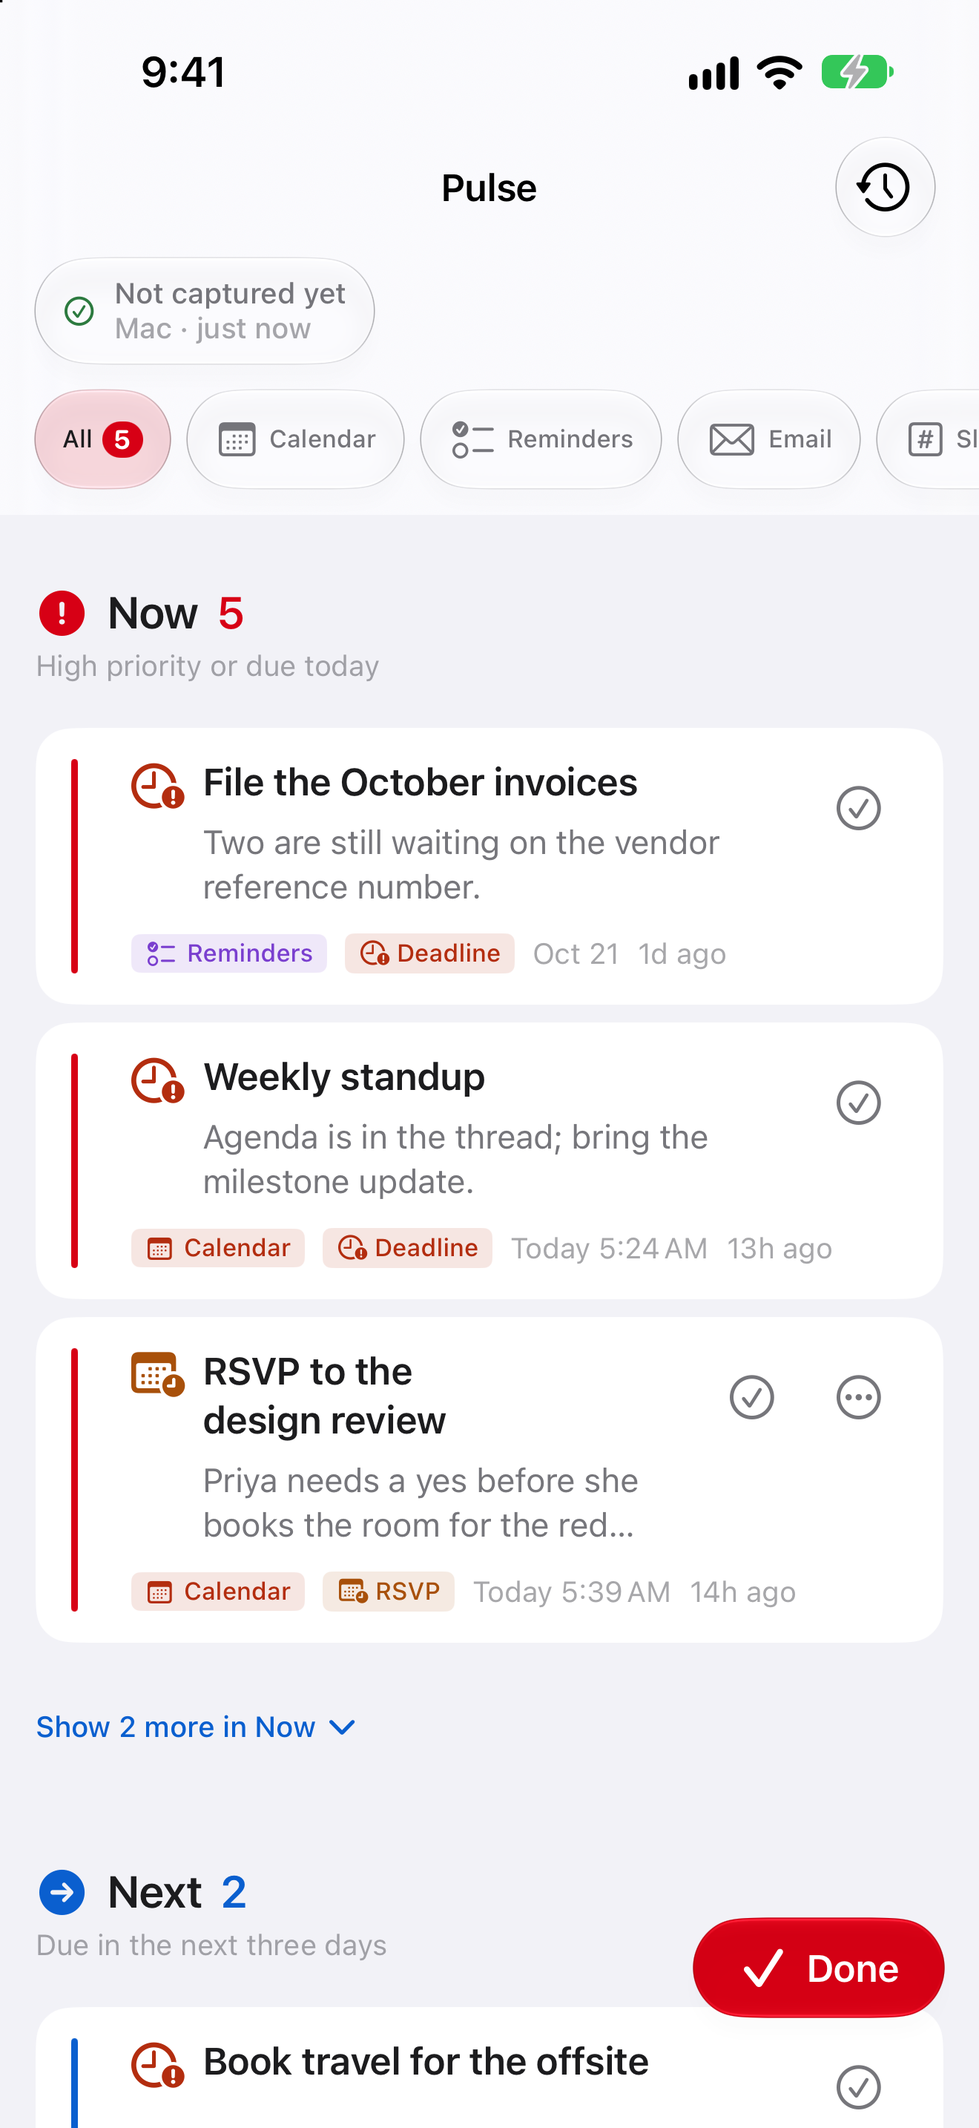
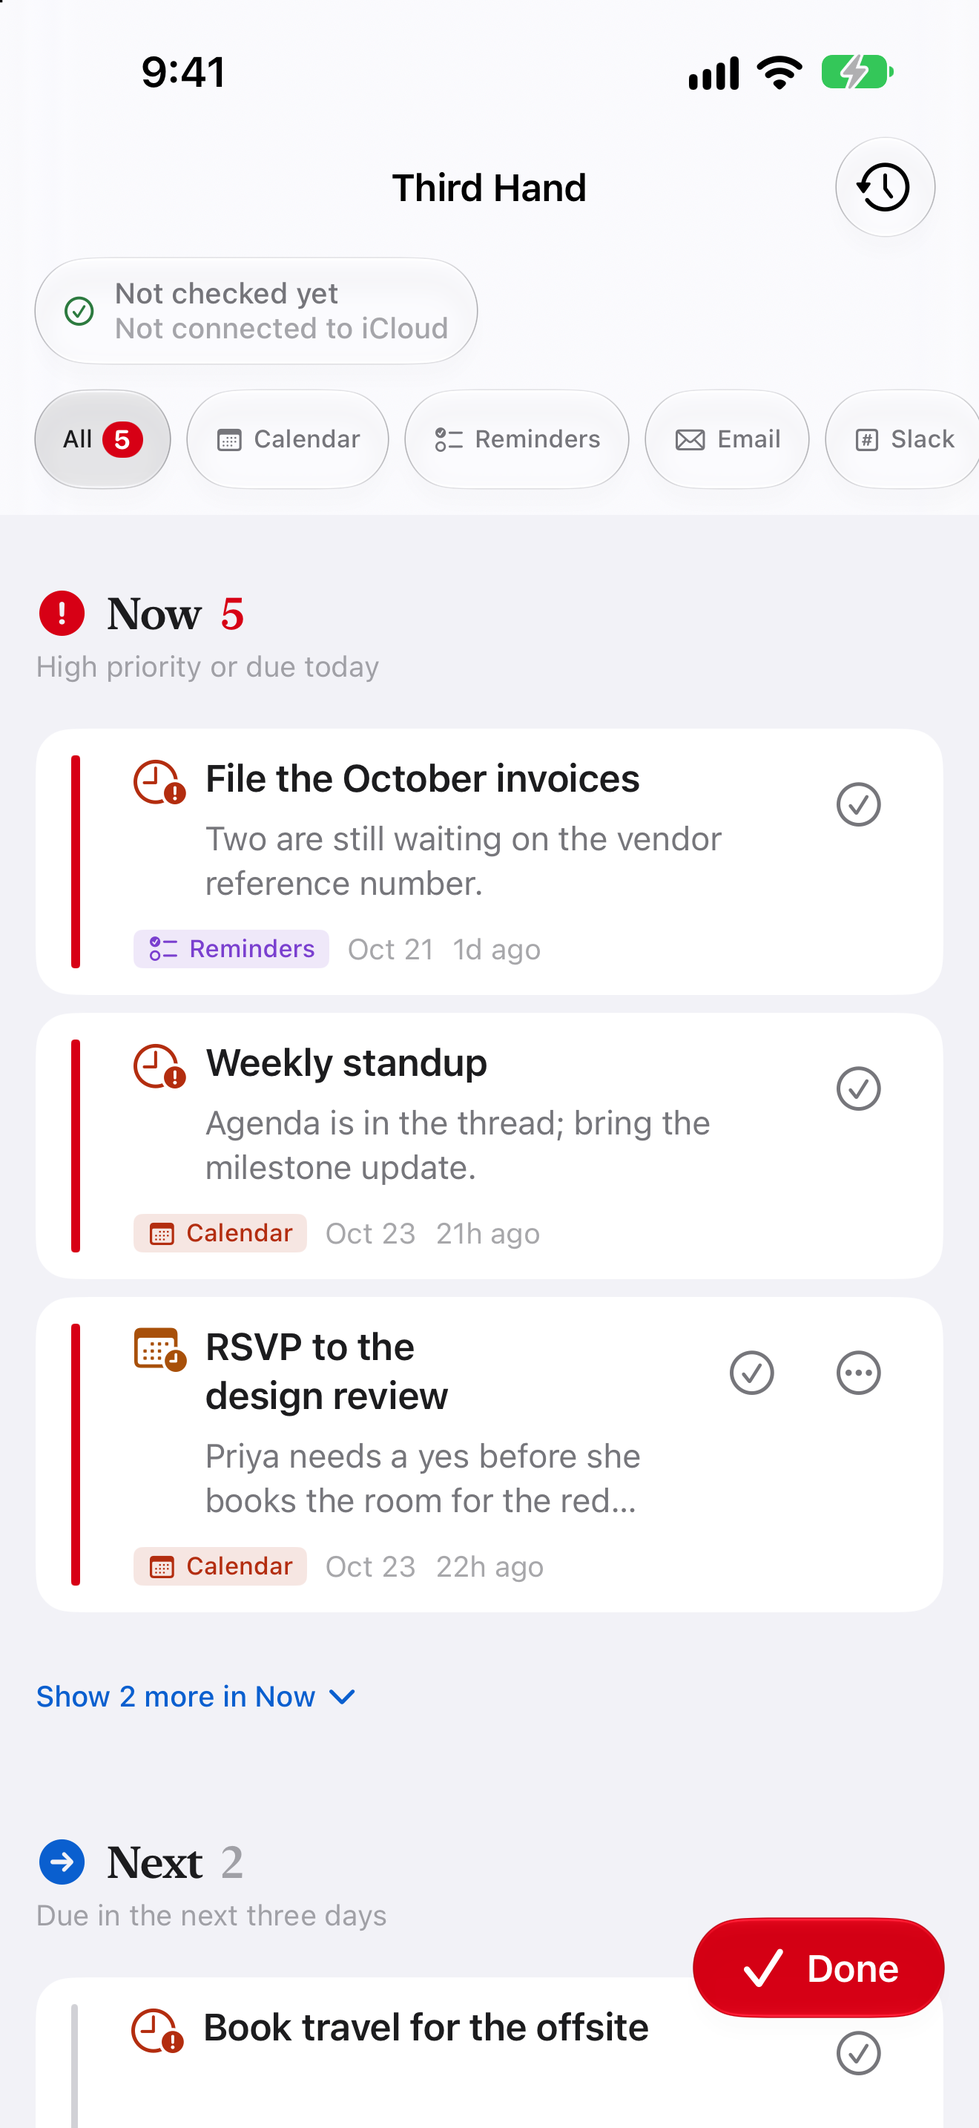
fix(copy): stop claiming nothing leaves the device
Four user-facing privacy statements became false when the mailbox was added, and
all four were about to ship in build 3:

  Settings      "Everything stays on this device." / "The only thing that leaves
                the device is what your Mac syncs"
  Email account "nothing leaves the phone" -- directly above the password field
  Empty state   "Third Hand reads on this device. Nothing leaves it."
  Preamble      "Nothing leaves your device"

Each now says what is true. Settings names both outbound paths (the iCloud mirror
and the password sent to your own mail server) instead of implying there is one.
The empty state and the permission preamble scope the claim to calendar and
reminders, which is what those screens are actually about. This matters more
than ordinary copy: the sentence a user reads before typing a password is the
one they rely on.

Screenshots recaptured against build 3. The committed set was five hours older
than the design pass, so it showed the pre-serif board, the old row heights and
no Settings or Mailbox screen at all. Ten captures now, one device, one build.

Capturing them was blocked by a bug worth recording: `EventKitEventProvider.events`
calls `requestFullAccessToEvents()` on every capture pass, so on a simulator
without a grant the system prompt covered the board on every launch, and
`simctl privacy grant` reports success without silencing it. `-ThirdHandDemoBoard`
[…]

diff --git a/ThirdHand/Features/Settings/SettingsView.swift b/ThirdHand/Features/Settings/SettingsView.swift
@@ -207,14 +207,22 @@ public struct SettingsView: View {
         VStack(alignment: .leading, spacing: ThirdHandSpacing.s) {
             eyebrow("Privacy")
             VStack(alignment: .leading, spacing: ThirdHandSpacing.xs) {
-                Text("Everything stays on this device.")
+                Text("Your data stays yours.")
                     .font(ThirdHandTypography.keyValueLabel)
                     .foregroundStyle(ThirdHandColor.textPrimary)
+                // Two outbound paths exist and both are the user's own: the iCloud
+                // mirror, and signing in to their own mail server. The previous copy
+                // said the iCloud mirror was "the only thing that leaves the device",
+                // which stopped being true when the mailbox was added -- a privacy
+                // claim that is subtly false is worse than a vague one, and this
+                // sentence is the one a user checks before typing a password.
                 Text(
                     "Third Hand reads your calendar, reminders and mailbox on the phone. "
-                        + "It has no server, no account and no analytics. The only thing that "
-                        + "leaves the device is what your Mac syncs over your own iCloud Drive, "
-                        + "and only if you turn that on."
+                        + "It has no server of its own, no account and no analytics. "
+                        + "Two things can leave the device, both to places you already own: "
+                        + "the board your Mac syncs over your own iCloud Drive, and your "
+                        + "password, sent only to your own mail server to sign in. "
+                        + "Only if you turn each one on."
                 )
                 .font(ThirdHandTypography.meta)
                 .foregroundStyle(ThirdHandColor.textSecondary)

diff --git a/ThirdHand/Features/Settings/EmailAccountModel.swift b/ThirdHand/Features/Settings/EmailAccountModel.swift
@@ -205,11 +205,23 @@ public final class EmailAccountModel {
     /// It says what is stored, where, and what is *not* done — three facts a security
     /// copy block usually omits. It does not promise encryption-in-transit beyond
     /// what is true: the transport is IMAPS (TLS from the first byte), which is.
-    public static let passwordRationale = """
-    Your app-specific password is kept in the iOS Keychain on this device only. It \
-    is never shown again, never written to a log, and never leaves the phone except \
-    to sign in to your mail server over an encrypted connection.
-    """
+    /// The noun the provider itself uses for the credential: "app-specific password"
+    /// is Gmail's phrase and reads as wrong under an iCloud account, which simply
+    /// calls it an app password. The rationale below is the only place the phrase
+    /// reaches the screen, so it takes the provider as a parameter rather than
+    /// hardcoding one vendor's vocabulary for everybody.
+    public static func passwordRationale(for provider: EmailAccount.Provider) -> String {
+        let noun = provider == .gmail ? "app-specific password" : "app password"
+        return """
+        Your \(noun) is kept in the iOS Keychain on this device only. It is never \
+        shown again, never written to a log, and never leaves the phone except to \
+        sign in to your mail server over an encrypted connection.
+        """
+    }
+
+    /// Kept as the Gmail-flavoured default for callers that have no provider in hand
+    /// (the rationale is also used by a preview and by the Settings row summary).
+    public static let passwordRationale = passwordRationale(for: .gmail)
 
     /// Provider-agnostic fallback, used only where a provider has no specific
     /// guidance. The per-provider text lives on `EmailAccount.Provider`, next to the

diff --git a/ThirdHand/Features/Settings/EmailAccountView.swift b/ThirdHand/Features/Settings/EmailAccountView.swift
@@ -85,7 +85,11 @@ public struct EmailAccountView: View {
                 // twice more — the password rationale and the Settings privacy
                 // block — so nothing is lost that the screen cannot say elsewhere.
                 if dynamicTypeSize < .accessibility4 {
-                    Text("Third Hand reads unread messages that need you and puts them on the board. It only reads the inbox, and nothing leaves the phone.")
+                    // "nothing leaves the phone" was false: the password is sent to the
+                    // user's own mail server on every check. Say what actually happens
+                    // here, because this paragraph sits directly above the field where
+                    // the user is about to type it.
+                    Text("Third Hand reads unread messages that need you and puts them on the board. It reads only the inbox, and only your password ever leaves the phone - sent to your own mail server, over an encrypted connection, to sign in.")
                         .font(ThirdHandTypography.emptyBody)
                         .foregroundStyle(ThirdHandColor.textSecondary)
                         .fixedSize(horizontal: false, vertical: true)
@@ -252,7 +256,7 @@ public struct EmailAccountView: View {
     private var rationale: some View {
         VStack(alignment: .leading, spacing: ThirdHandSpacing.xs) {
             Label {
-                Text(EmailAccountModel.passwordRationale)
+                Text(EmailAccountModel.passwordRationale(for: model.draftProvider))
                     .fixedSize(horizontal: false, vertical: true)
             } icon: {
                 Image(systemName: "lock")

diff --git a/ThirdHandTests/EmailAccountModelTests.swift b/ThirdHandTests/EmailAccountModelTests.swift
@@ -96,6 +96,23 @@ struct EmailAccountModelTests {
         )
     }
 
+    @Test("the password rationale uses the provider's own word for the credential")
+    func rationaleUsesProviderVocabulary() {
+        // Gmail calls it an "app-specific password"; Apple calls it an "app password".
+        // Showing Gmail's phrase to an iCloud user reads as a copy-paste mistake, and
+        // the footer is the only place the phrase appears.
+        #expect(EmailAccountModel.passwordRationale(for: .gmail).contains("app-specific password"))
+        #expect(!EmailAccountModel.passwordRationale(for: .icloud).contains("app-specific"))
+        #expect(EmailAccountModel.passwordRationale(for: .icloud).contains("app password"))
+        // The three facts that make the block honest must survive the swap.
+        for provider in EmailAccount.Provider.allCases {
+            let text = EmailAccountModel.passwordRationale(for: provider)
+            #expect(text.contains("Keychain"), "\(provider.rawValue): keychain claim lost")
+            #expect(text.contains("this device only"), "\(provider.rawValue): device-only claim lost")
+            #expect(text.contains("never written to a log"), "\(provider.rawValue): log claim lost")
+        }
+    }
+
     // MARK: Phase
 
     @Test("no configured mailbox reads as not connected")

diff --git a/ThirdHand/ThirdHandApp.swift b/ThirdHand/ThirdHandApp.swift
@@ -210,6 +210,23 @@ enum DemoSeed {
     /// denial as a source failure, which is the banner the board expects.
     static func capture(store: ItemStore) -> Capture {
         #if os(iOS)
+        #if DEBUG
+        // Screenshot runs (`-ThirdHandDemoBoard`) must not touch EventKit.
+        // `EventKitEventProvider.events` calls `requestFullAccessToEvents()` on
+        // every pass, so on a simulator that has not been granted access the
+        // system prompt covers the board on every capture -- which made every
+        // App Store screenshot unusable. The board draws from `FixtureStore` in
+        // this mode anyway, so capture has nothing to contribute.
+        if ProcessInfo.processInfo.arguments.contains("-ThirdHandDemoBoard")
+            || ProcessInfo.processInfo.arguments.contains("-ThirdHandDemoEmpty") {
+            let inert = EmptyCapture()
+            return Capture(
+                providing: inert,
+                runFull: { false },
+                runIncremental: { false }
+            )
+        }
+        #endif
         let engine = CaptureEngine(
             sources: [
                 EventKitSource(provider: EventKitEventProvider()),

diff --git a/ThirdHand/Features/Onboarding/PermissionPreambleView.swift b/ThirdHand/Features/Onboarding/PermissionPreambleView.swift
@@ -40,7 +40,10 @@ public struct PermissionPreambleView: View {
             }
 
             VStack(alignment: .leading, spacing: ThirdHandSpacing.xs) {
-                bullet("Nothing leaves your device", "lock.fill")
+                // Scoped to the sources being asked about. A blanket "nothing leaves
+                // your device" stopped being true once an optional mailbox existed;
+                // this screen only ever precedes the calendar/reminders prompt.
+                bullet("Calendar and reminders never leave your device", "lock.fill")
                 bullet("No account", "person.crop.circle.badge.xmark")
                 bullet("You can revoke any time", "arrow.uturn.backward.circle")
             }

diff --git a/ThirdHand/Features/States/EmptyBoardView.swift b/ThirdHand/Features/States/EmptyBoardView.swift
@@ -174,7 +174,10 @@ public struct EmptyBoardView: View {
         case .filtered:
             return "Filters are never saved between launches."
         case .denied:
-            return "Third Hand reads on this device. Nothing leaves it."
+            // Was "Nothing leaves it", which a connected mailbox makes false --
+            // the password goes to the user's own mail server. Scope the claim to
+            // what this state is actually about: the calendar and reminders.
+            return "Third Hand reads your calendar and reminders on this device."
         }
     }
 }

diff --git a/docs/APPSTORE-METADATA.md b/docs/APPSTORE-METADATA.md
@@ -3,8 +3,12 @@
 Everything App Store Connect asks for on the version page, ready to paste.
 Verified against `asc` v0.18.2 and against the archive described in §10 of
 `RELEASE.md`. The version record and `MARKETING_VERSION` are both `0.1.0`;
-build 2 is the one uploaded to TestFlight (build 1 was rejected on
-iPad orientations, 90474).
+build 3 is the one uploaded to TestFlight (build 1 was rejected on iPad
+orientations, 90474; build 2 shipped without the mailbox or the redesigned board).
+
+The screenshots in `docs/screenshots/` were recaptured against build 3. The
+earlier set predated the design pass by five hours and no longer matched the
+shipped board.
 
 Companion docs: [`APPSTORE-SETUP.md`](APPSTORE-SETUP.md) (account plumbing and
 portal click-paths) and [`PRIVACY.md`](PRIVACY.md) (the policy behind §5).
@@ -36,10 +40,10 @@ bundle id `com.steveafrost.thirdhand`, so nothing is colliding with the new reco
 ## 2. Promotional text
 
 ```
-See everything that needs a reply, a decision or your attention, ordered by urgency. From your calendar and reminders. No account, no server, no analytics.
+See everything that needs a reply, a decision or your attention, ordered by urgency. From your calendar, reminders and mailbox. No account, no analytics.
 ```
 
-155 characters (limit 170). Editable at any time without a new review, which is
+153 characters (limit 170). Editable at any time without a new review, which is
 why it leads with the value proposition rather than a release note.
 
 ---
@@ -86,12 +90,21 @@ Home Screen widgets in three sizes and all three Lock Screen families, plus a Li
 
 YOUR DATA STAYS YOURS
 
-Third Hand has no account, no sign-up, and no server. There is nothing to log in to.
+Third Hand has no account and no server of its own. It reads your calendar and reminders on the device, and nothing leaves it.
 
-- It reads only your Calendar and Reminders, and only on this device
+- Calendar and Reminders are read on this device and stored on this device
 - No analytics, no tracking, no third-party SDKs
 - Your board syncs to your own private iCloud so it can reach your Mac, and to nobody else
 - Everything else is stored on the device and nowhere else
+
+MAIL IS OPTIONAL, AND IT IS YOURS
+
+Optionally, you can connect a mailbox over IMAP so messages that need a reply show up on the same board. It is off until you turn it on.
+
+- Your mail password is stored in the iOS Keychain, marked so it never leaves this device and is never included in a backup to a new one
+- It is sent only to your own mail provider, to sign in. There is no middle server and nothing to route through us
+- Message headers are read on the device; nothing is uploaded anywhere
+- Disconnecting deletes the stored password and the cached mail items
 
 If you delete the app, Third Hand has nothing left to delete.
 
@@ -139,7 +152,17 @@ Why this is true, per [`ARCHITECTURE.md`](ARCHITECTURE.md) §Privacy:
 | Calendar and reminders are read | Read on-device and stored on-device. Nothing is transmitted to the developer or any third party. |
 | There is an iCloud snapshot | It goes to **the user's own private iCloud container** (`iCloud.com.steveafrost.thirdhand`), under their Apple ID. The developer has no access, no server, and no key. Apple treats "data stored in the user's own iCloud, not accessible to the developer" as not collected by the developer. |
 | Any analytics or crash reporting? | None. No third-party SDKs, no telemetry, no crash reporter. |
-| Any account? | None. No sign-in, no email capture, no identifier. |
+| Any account? | None. No app account, no sign-up, no identifier. |
+| **A connected mailbox (new in this build)** | The user's own IMAP credentials and message headers. The password is in the device Keychain and is sent **only to the user's own mail host** to authenticate; headers are read on-device. Nothing is routed through the developer, so nothing is collected *by the developer or a third party* — which is what the question asks. The mailbox is off unless the user enables it. |
+
+**Judgement call, stated plainly.** The mailbox is the one place a reviewer could
+reasonably disagree. The position taken here is that "Data Not Collected" remains
+correct because collection is defined as transmission off the device *to the developer
+or a third party*, and an IMAP client talking to the account owner's own mail server at
+their instruction is neither. Apple's own Mail app reports the same shape. If a reviewer
+pushes back, the fallback is to declare **User Content → Emails or Text Messages**,
+purpose *App Functionality*, not linked to identity, not used for tracking — that answer
+is also true and is the conservative one.
 
 If the App Privacy UI is unavailable (it is not settable by `asc` — the CLI has no
 `app-privacy` subcommand), this is the developer-portal step:
@@ -162,8 +185,10 @@ on for the repo first. See §7 for the switch.
 > Third Hand does not collect any data. Calendar and reminders are read on the device
 > and stay there. Your board is mirrored to your own private iCloud container so
 > it can reach your Mac; that copy belongs to your Apple ID and is never visible
-> to the developer. There is no account, no server, no analytics and no
-> third-party SDK.
+> to the developer. If you choose to connect a mailbox, its password is kept in the
+> iOS Keychain on this device and sent only to your own mail provider; message headers
+> are read on the device and are not uploaded anywhere. There is no account, no
+> server of ours, no analytics and no third-party SDK.
 
 ---
 
@@ -241,29 +266,64 @@ Recorded as `supportsIPad: false`.
 All are real simulator captures of the debug fixture board, status bar pinned to
 9:41 with full battery and Wi-Fi, per `DESIGN.md` §12. No lorem, no mockups.
 
-| # | File | Pixels | Device | Shows |
-| --- | --- | --- | --- | --- |
-| 1 | `01-board-now-69.png` | 1320×2868 | iPhone 17 Pro Max | Board populated, Now expanded with 3 rows, filter bar, FAB |
-| 2 | `02-detail-quick-actions-69.png` | 1320×2868 | iPhone 17 Pro Max | Item detail sheet: header, quick actions, action bar |
-| 3 | `03-snooze-69.png` | 1320×2868 | iPhone 17 Pro Max | Snooze sheet with the three presets |
-| 4 | `04-closed-review-69.png` | 1320×2868 | iPhone 17 Pro Max | Recently Closed review with reopen |
-| 5 | `05-all-clear-69.png` | 1320×2868 | iPhone 17 Pro Max | "You're all clear" empty state with last-checked |
-| 6 | `06-permission-preamble-69.png` | 1320×2868 | iPhone 17 Pro Max | The permission preamble before any system prompt |
-| 7 | `07-board-dark-69.png` | 1320×2868 | iPhone 17 Pro Max | The board in dark appearance |
-| 8 | `08-board-61.png` | 1179×2556 | iPhone 16 | Board at default Dynamic Type, all four sections |
+| # | File | Size | Screen |
+| --- | --- | --- | --- |
+| 1 | `01-board-now-69.png` | 1320×2868 | The board at default Dynamic Type, all four horizons |
+| 2 | `02-detail-quick-actions-69.png` | 1320×2868 | Item detail: metadata, quick actions, history |
+| 3 | `03-snooze-69.png` | 1320×2868 | The snooze menu, with its three durations |
+| 4 | `04-closed-review-69.png` | 1320×2868 | Recently Closed, with the reopen affordance |
+| 5 | `05-permission-preamble-69.png` | 1320×2868 | The preamble shown before any system permission prompt |
+| 6 | `06-settings-69.png` | 1320×2868 | Settings: sources, mailbox row, privacy block |
+| 7 | `07-email-account-69.png` | 1320×2868 | Connecting a mailbox: address, provider picker, password |
+| 8 | `08-email-connected-69.png` | 1320×2868 | A connected mailbox, with status and the disconnect action |
+| 9 | `09-board-dark-69.png` | 1320×2868 | The board in dark appearance |
+| 10 | `10-all-clear-69.png` | 1320×2868 | The all-clear state with last-checked |
 
 Captured with:
 
 ```sh
-D="Third Hand 17 Pro Max"   # created from iPhone-17-Pro-Max + iOS 27 runtime
-xcrun simctl install  "$D" /tmp/pulse-shots/Build/Products/Debug-iphonesimulator/ThirdHand.app
-xcrun simctl privacy  "$D" grant calendar com.steveafrost.thirdhand
-xcrun simctl privacy  "$D" grant reminders com.steveafrost.thirdhand
+# A dedicated device, because a stale TCC grant on a reused simulator leaves the
+# calendar prompt on screen and ruins every capture.
+D=$(xcrun simctl create "TH Shots 69" com.apple.CoreSimulator.SimDeviceType.iPhone-17-Pro-Max \
+      com.apple.CoreSimulator.SimRuntime.iOS-27-0)
+xcrun simctl boot "$D"
+xcrun simctl install  "$D" /tmp/shots/Build/Products/Debug-iphonesimulator/ThirdHand.app
 xcrun simctl status_bar "$D" override --time "9:41" --batteryState charged \
     --batteryLevel 100 --wifiBars 3 --cellularBars 4
-xcrun simctl launch   "$D" com.steveafrost.thirdhand -ThirdHandDemoBoard -ThirdHandDemoScreen board
-xcrun simctl io       "$D" screenshot docs/screenshots/01-board-now-69.png
+
+shoot() {  # image-name screen-name
+  xcrun simctl terminate "$D" com.steveafrost.thirdhand 2>/dev/null; sleep 0.6
+  xcrun simctl launch "$D" com.steveafrost.thirdhand \
+      -ThirdHandDemoBoard -ThirdHandDemoScreen "$2" >/dev/null
+  sleep 5
+  xcrun simctl io "$D" screenshot "docs/screenshots/$1"
+}
+
+shoot 01-board-now-69.png            board
+shoot 02-detail-quick-actions-69.png detail
+shoot 03-snooze-69.png               snooze
+shoot 04-closed-review-69.png        closed
+shoot 05-permission-preamble-69.png  preamble
+shoot 06-settings-69.png             settings
+shoot 07-email-account-69.png        email
+shoot 08-email-connected-69.png      emailConnected
+
+xcrun simctl ui "$D" appearance dark
+shoot 09-board-dark-69.png           board
+
+# The all-clear state uses the empty fixture rather than the demo board.
+xcrun simctl ui "$D" appearance light
+xcrun simctl terminate "$D" com.steveafrost.thirdhand 2>/dev/null; sleep 0.6
+xcrun simctl launch "$D" com.steveafrost.thirdhand \
+    -ThirdHandDemoEmpty -ThirdHandDemoScreen board >/dev/null
+sleep 5
+xcrun simctl io "$D" screenshot docs/screenshots/10-all-clear-69.png
 ```
+
+**`-ThirdHandDemoBoard` also short-circuits capture** (`DemoSeed.capture`), because
+`EventKitEventProvider.events` calls `requestFullAccessToEvents()` on every pass and
+would otherwise raise the system prompt over the board on each launch. That guard is
+`#if DEBUG` and cannot affect a Release build.
 
 The other screens swap `-ThirdHandDemoScreen` for `detail`, `snooze`, `closed`,
 `preamble`, and add `-ThirdHandDemoEmpty` for the all-clear state. These flags are
